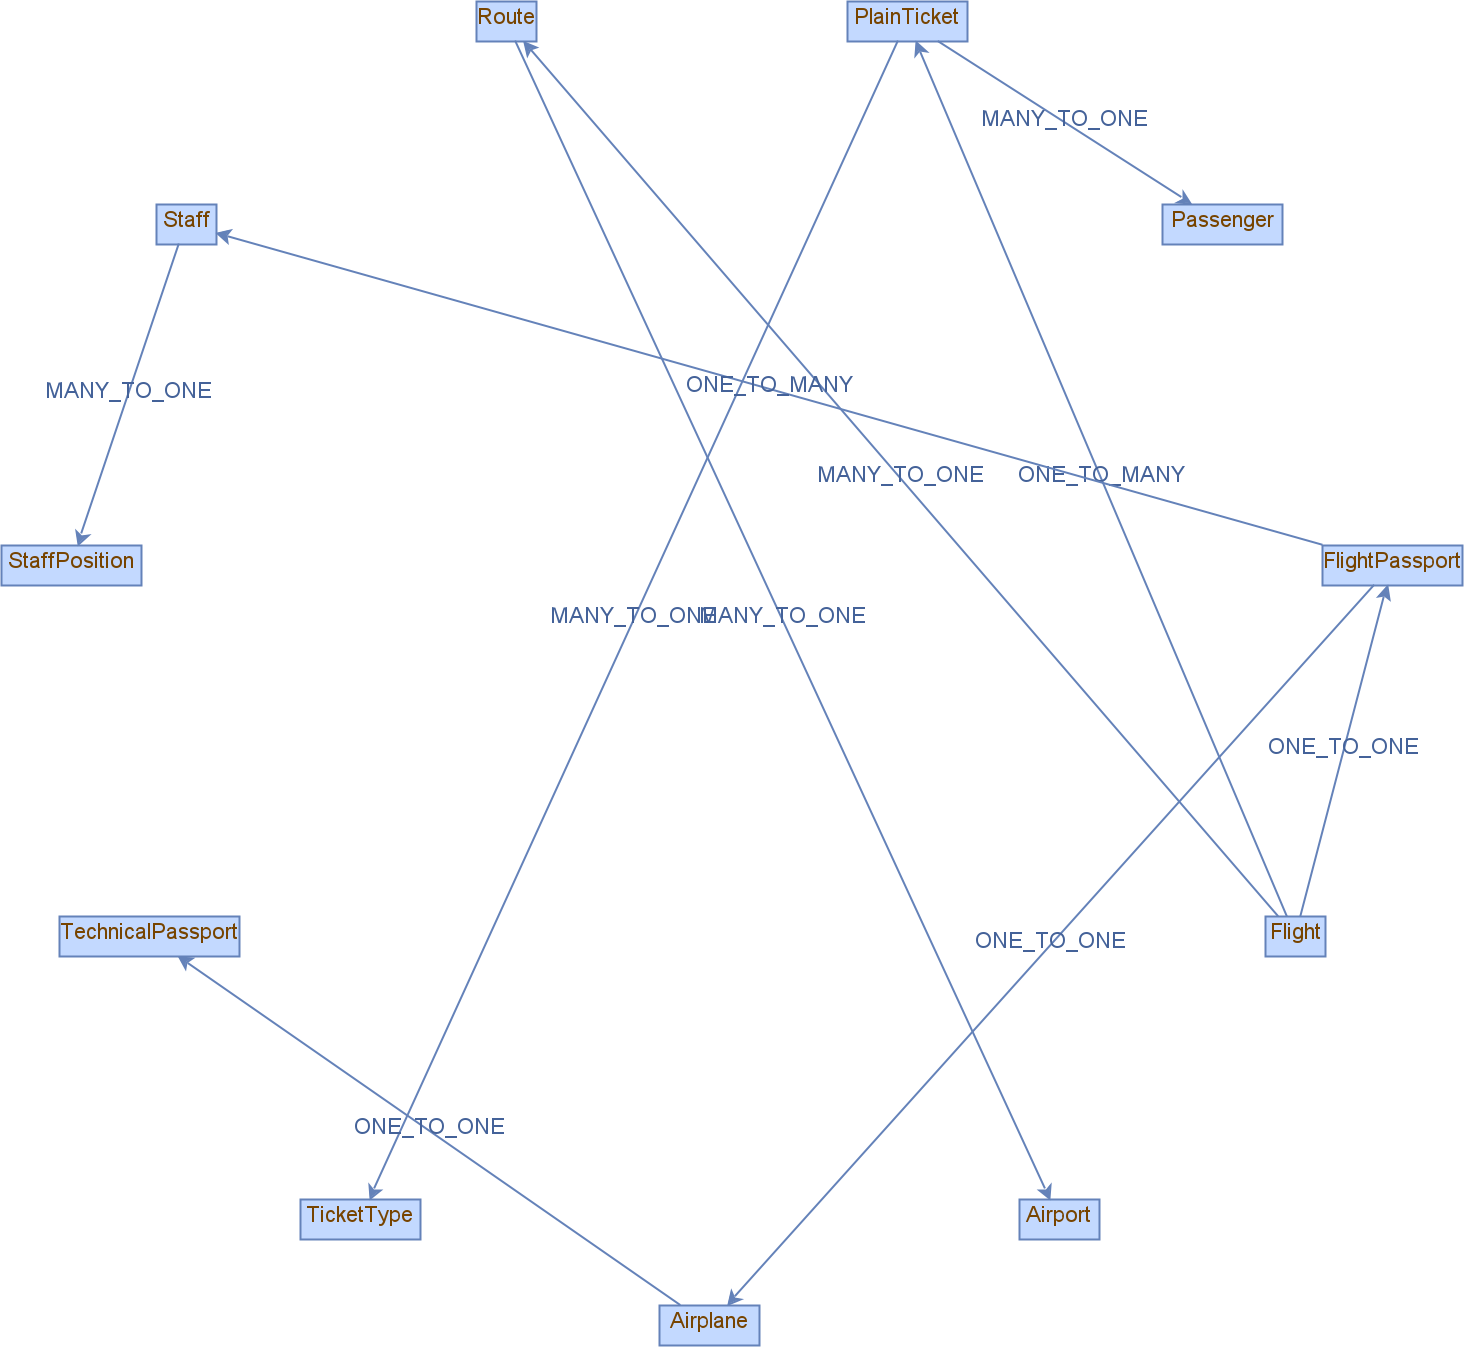
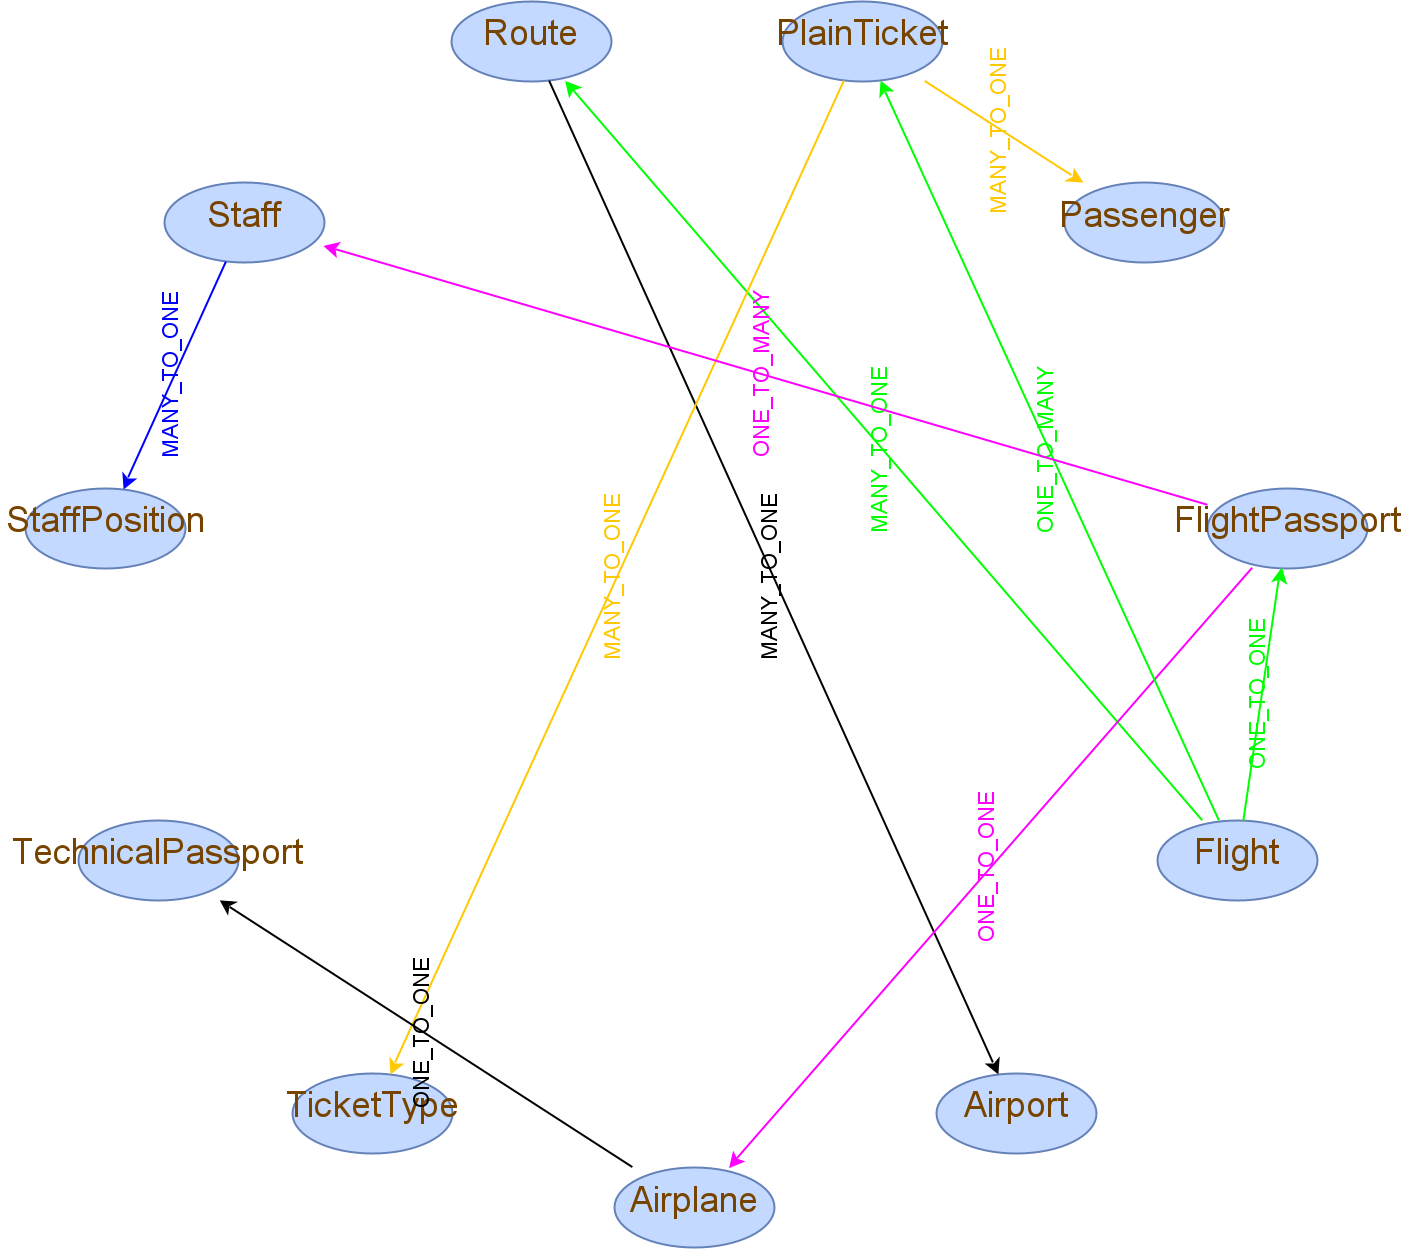
creating graphml file; settings for graph visualisation

diff --git a/src/main/java/lab_6/Main.java b/src/main/java/lab_6/Main.java
@@ -2,48 +2,57 @@ package lab_6;
 
 import com.mxgraph.layout.mxCircleLayout;
 import com.mxgraph.layout.mxIGraphLayout;
+import com.mxgraph.model.mxGeometry;
+import com.mxgraph.model.mxICell;
 import com.mxgraph.util.mxCellRenderer;
-import lab_6.annotations.Column;
+import com.mxgraph.util.mxConstants;
+import com.mxgraph.view.mxPerimeter;
+import com.mxgraph.view.mxStylesheet;
+import lab_6.class_workers.ClassAnalyzer;
 import lab_6.class_workers.ClassScanner;
 import lab_6.graph.Edge;
 import lab_6.graph.GraphModel;
-import lab_6.graph.RelationType;
 import lab_6.graph.Vertex;
 import org.jgrapht.Graph;
 import org.jgrapht.ext.JGraphXAdapter;
-import org.jgrapht.graph.AbstractGraph;
-import org.jgrapht.graph.DefaultDirectedGraph;
-import org.jgrapht.graph.DefaultEdge;
-import org.jgrapht.graph.SimpleGraph;
+import org.jgrapht.nio.graphml.GraphMLExporter;
 
 import javax.imageio.ImageIO;
 import java.awt.*;
 import java.awt.image.BufferedImage;
 import java.io.File;
 import java.io.IOException;
-import java.lang.annotation.Annotation;
-import java.lang.reflect.Field;
+import java.io.OutputStream;
 import java.net.URI;
 import java.net.URISyntaxException;
+import java.nio.file.Files;
 import java.nio.file.Path;
 import java.nio.file.StandardOpenOption;
-import java.util.HashMap;
 import java.util.List;
-import java.util.Map;
-import java.util.function.Supplier;
+import java.util.*;
+import java.util.function.Consumer;
 
 public class Main {
     public static void main(String[] args) throws URISyntaxException, IOException {
         List<Class<?>> classes = new ClassScanner().get(URI.create("airlines/db"));
-//        ClassAnalyzer classAnalyzer = new ClassAnalyzer(classes)
-//                .file(Path.of("./src/main/resources/class_analysis.txt"), StandardOpenOption.CREATE, StandardOpenOption.TRUNCATE_EXISTING)
-//                .printInConsole(false);
-
-//        classAnalyzer.analyse();
+        classAnalyse(classes);
         Graph<Vertex, Edge> graph = new GraphModel(classes);
-        System.out.println(graph.edgeSet());
-
         createPNGFile(graph);
+        saveInGraphML(graph);
+    }
+
+    private static void classAnalyse(List<Class<?>> classes) throws IOException {
+        ClassAnalyzer classAnalyzer = new ClassAnalyzer(classes)
+                .file(Path.of("./src/main/resources/class_analysis.txt"), StandardOpenOption.CREATE, StandardOpenOption.TRUNCATE_EXISTING)
+                .printInConsole(false);
+
+        classAnalyzer.analyse();
+    }
+
+    private static void saveInGraphML(Graph<Vertex, Edge> graph) throws IOException {
+        GraphMLExporter<Vertex, Edge> exporter = new GraphMLExporter<Vertex, Edge>();
+        OutputStream stream = Files.newOutputStream(Path.of("./src/main/resources/graph.graphml"), StandardOpenOption.CREATE, StandardOpenOption.TRUNCATE_EXISTING);
+        exporter.exportGraph(graph, stream);
     }
 
     private static void createPNGFile(Graph<Vertex, Edge> graph) throws IOException {
@@ -51,12 +60,116 @@ public class Main {
         imgFile.createNewFile();
 
         JGraphXAdapter<Vertex, Edge> graphAdapter =
-                new JGraphXAdapter<>(graph);
+                preparedGraphXAdapter(graph);
         mxIGraphLayout layout = new mxCircleLayout(graphAdapter);
         layout.execute(graphAdapter.getDefaultParent());
 
         BufferedImage image =
                 mxCellRenderer.createBufferedImage(graphAdapter, null, 2, Color.WHITE, true, null);
         ImageIO.write(image, "PNG", imgFile);
+    }
+
+    private static JGraphXAdapter<Vertex, Edge> preparedGraphXAdapter(Graph<Vertex, Edge> graph) {
+        JGraphXAdapter<Vertex, Edge> graphAdapter = new JGraphXAdapter<>(graph);
+        mxStylesheet stylesheet = graphAdapter.getStylesheet();
+        stylesheet.setDefaultVertexStyle(getDefaultVertexStyle());
+        stylesheet.setDefaultEdgeStyle(getDefaultEdgeStyle());
+
+        HashMap<Edge, mxICell> edgeToCellMap = graphAdapter.getEdgeToCellMap();
+        HashMap<Vertex, mxICell> vertexToCellMap = graphAdapter.getVertexToCellMap();
+
+        Set<Vertex> vertices = graph.vertexSet();
+        ColorIterator iterator = new ColorIterator(false);
+        for (Vertex vertex: vertices) {
+            Set<Edge> edges = graph.outgoingEdgesOf(vertex);
+            mxICell mxICellVertex = vertexToCellMap.get(vertex);
+            mxICellVertex.setStyle("fontSize=18");
+            mxGeometry geometry = mxICellVertex.getGeometry();
+            geometry.setWidth(80);
+            geometry.setHeight(40);
+            String hexFormat = getHEXFormat(iterator.next());
+            for (Edge edge: edges) {
+                edgeToCellMap.get(edge).setStyle(String.format("strokeColor=%s;fontColor=%s", hexFormat, hexFormat));
+            }
+        }
+
+        return graphAdapter;
+    }
+
+    private static String getHEXFormat(Color color) {
+        return String.format("#%s", Integer.toHexString(color.getRGB()).substring(2));
+    }
+
+    private static Map<String, Object> getDefaultEdgeStyle() {
+        Map<String, Object> style = new Hashtable<String, Object>();
+
+        style.put(mxConstants.STYLE_SHAPE, mxConstants.SHAPE_CONNECTOR);
+        style.put(mxConstants.STYLE_ENDARROW, mxConstants.ARROW_CLASSIC);
+        style.put(mxConstants.STYLE_HORIZONTAL, mxConstants.ALIGN_BOTTOM);
+        style.put(mxConstants.STYLE_LABEL_POSITION, mxConstants.ALIGN_BOTTOM);
+        style.put(mxConstants.STYLE_STROKECOLOR, "#6482B9");
+        style.put(mxConstants.STYLE_FONTCOLOR, "#446299");
+
+        return style;
+    }
+
+    private static Map<String, Object> getDefaultVertexStyle() {
+        Map<String, Object> style = new Hashtable<String, Object>();
+
+        style.put(mxConstants.STYLE_SHAPE, mxConstants.SHAPE_ELLIPSE);
+        style.put(mxConstants.STYLE_PERIMETER, mxPerimeter.RectanglePerimeter);
+        style.put(mxConstants.STYLE_VERTICAL_ALIGN, mxConstants.ALIGN_MIDDLE);
+        style.put(mxConstants.STYLE_ALIGN, mxConstants.ALIGN_CENTER);
+        style.put(mxConstants.STYLE_FILLCOLOR, "#C3D9FF");
+        style.put(mxConstants.STYLE_STROKECOLOR, "#6482B9");
+        style.put(mxConstants.STYLE_FONTCOLOR, "#774400");
+
+        return style;
+    }
+
+    private static class ColorIterator implements Iterator<Color> {
+
+        private Color[] colors = {Color.BLACK, Color.BLUE, Color.GREEN, Color.MAGENTA, Color.RED, Color.ORANGE};
+        private int index;
+        private final boolean isRandom;
+
+        public ColorIterator() {
+            this(false);
+        }
+        
+        public ColorIterator(boolean isRandom) {
+            this.isRandom = isRandom;
+            this.index = nextIndex(-1);
+        }
+
+        private int nextIndex(int prevIndex) {
+            return isRandom ? randomIndex(prevIndex) : (prevIndex + 1) % colors.length;
+        }
+
+        private int randomIndex(int exclusiveIndex) {
+            int index;
+            do {
+                index = (int)(Math.random() * colors.length);
+            } while (index == exclusiveIndex);
+
+            return index;
+        }
+
+        @Override
+        public boolean hasNext() {
+            return true;
+        }
+
+        @Override
+        public Color next() {
+            Color color = colors[index];
+            index = nextIndex(index);
+            return color;
+        }
+
+        @Override
+        public void forEachRemaining(Consumer<? super Color> action) {
+            throw new RuntimeException("It's infinity iterator!");
+        }
     }
 }

diff --git a/src/main/java/lab_6/Test.java b/src/main/java/lab_6/Test.java
@@ -1,0 +1,10 @@
+package lab_6;
+
+import java.awt.*;
+
+public class Test {
+    public static void main(String[] args) {
+        Color green = new Color(16, 16, 16);
+        System.out.println(Integer.toHexString(green.getRGB()).substring(2));
+    }
+}
